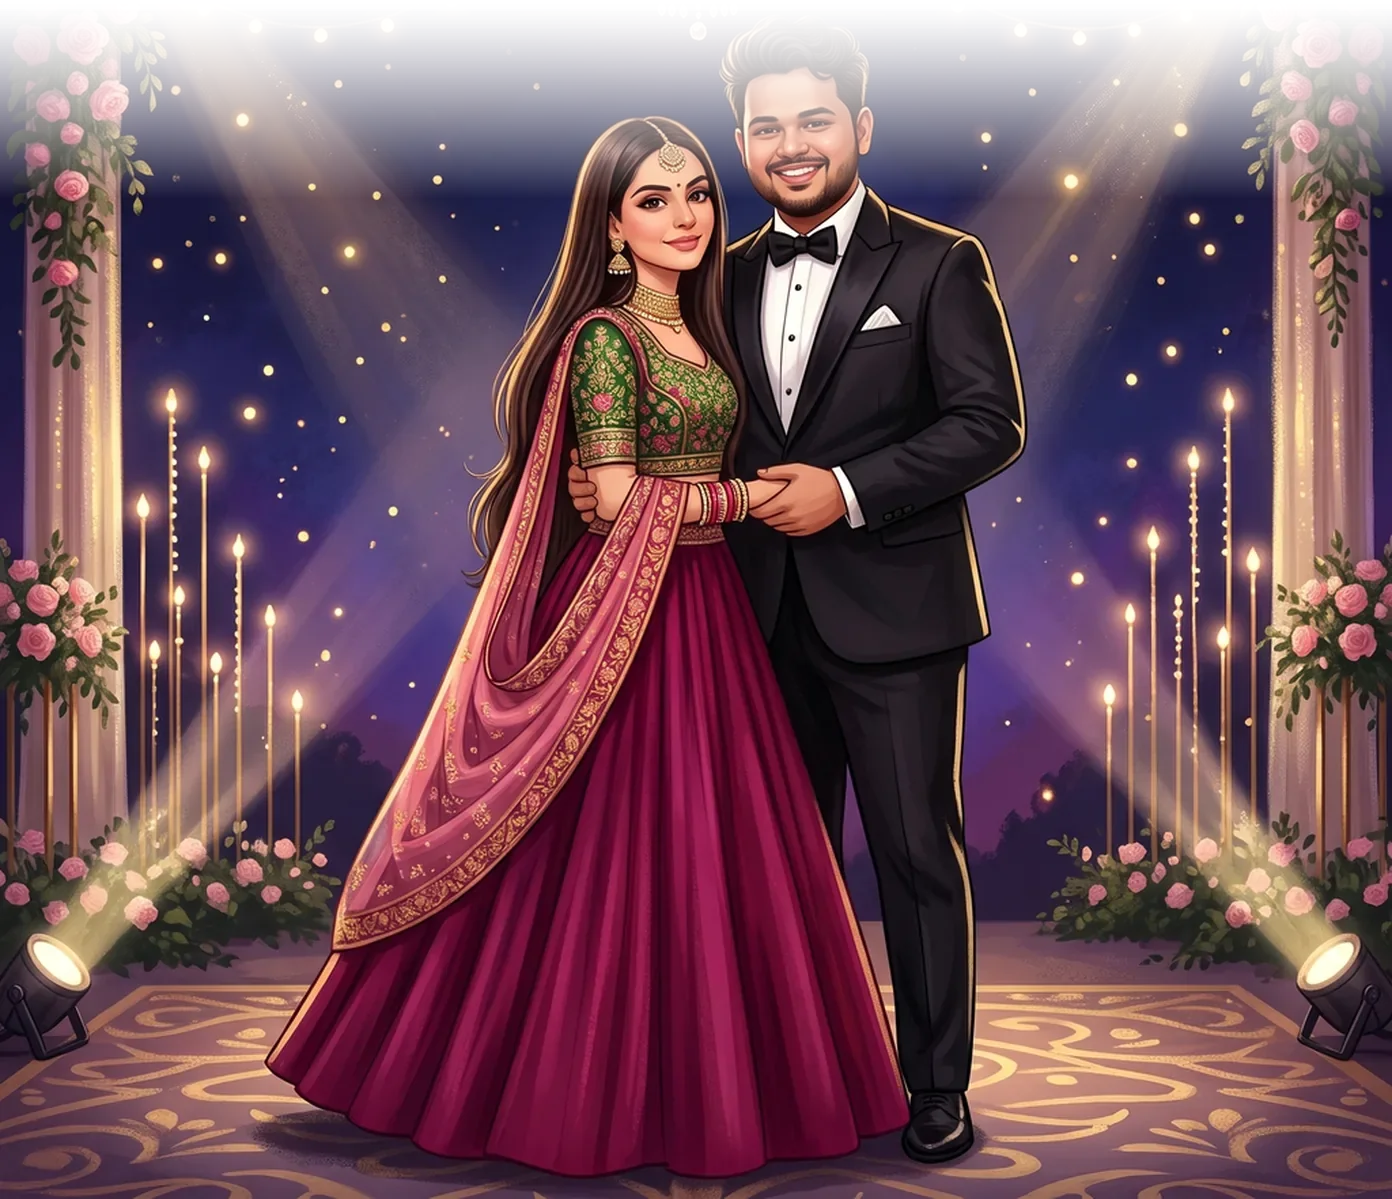
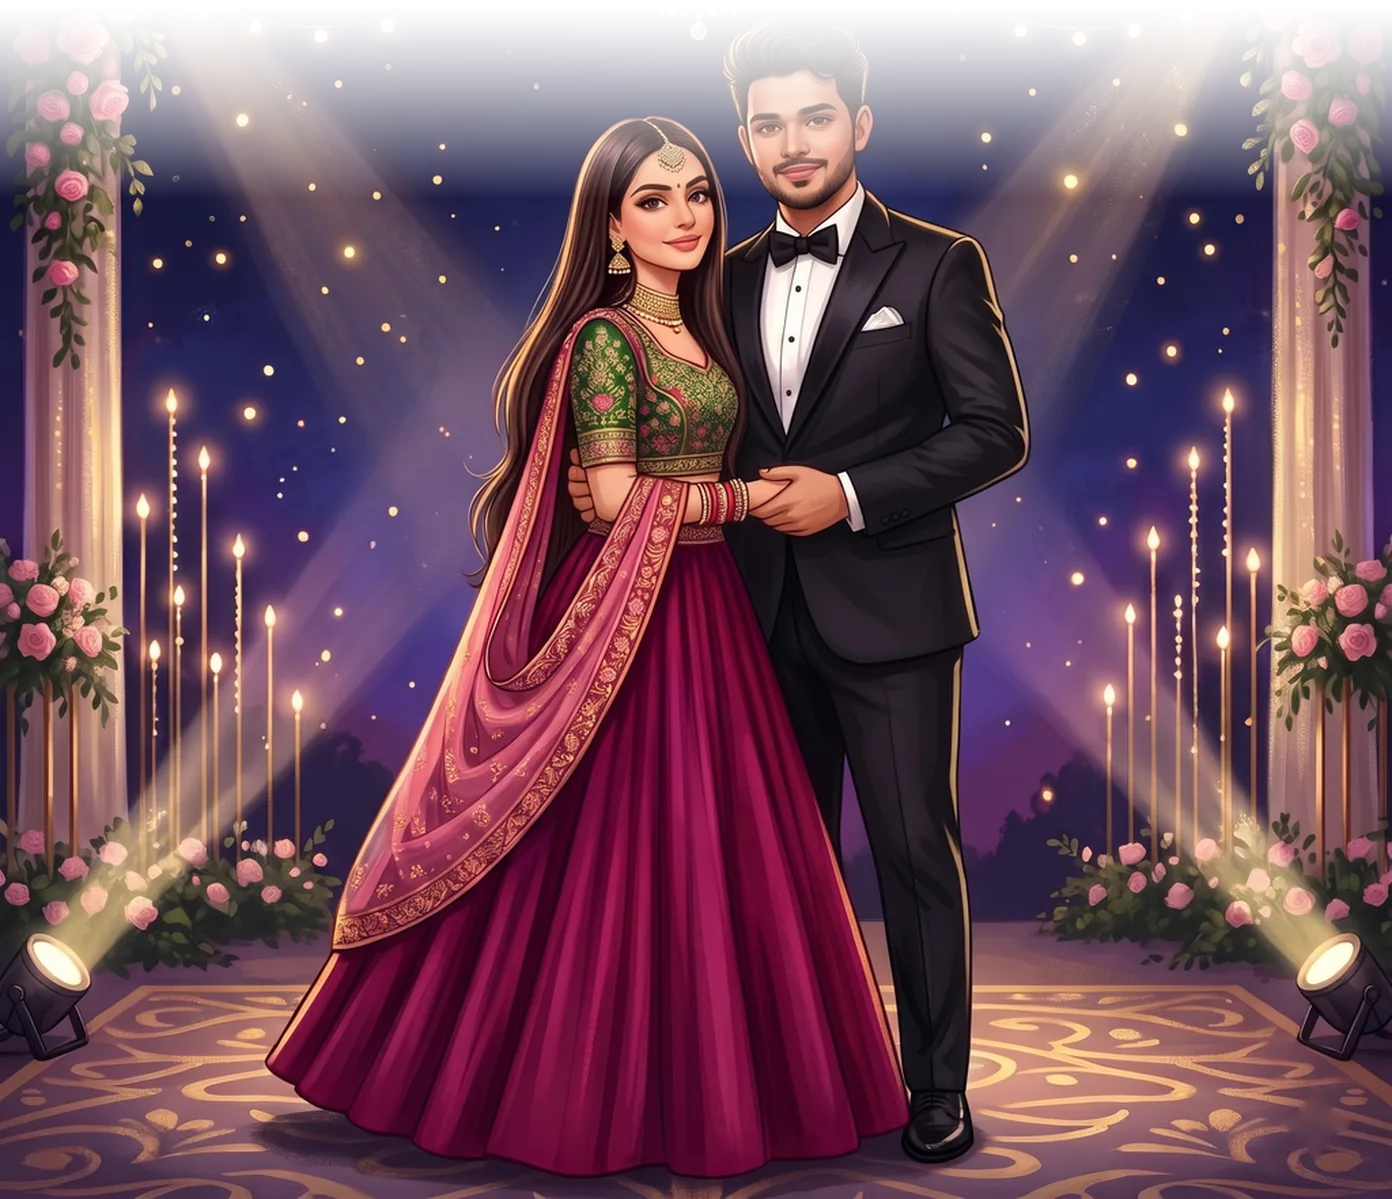
One-tap doors, Ganesha up top, readable plaques, slimmer scene art
- Any touch on the doors opens them, for older guests.
- The hugging photo at the top is replaced by a painted Ganesha.
- Names get an ivory halo; dates, times and the venue sit on gold-edged plaques.
- The four scenes are redone with fit figures and flawless faces; Gemini's
  corner sparkle is painted out (tools/remove_sparkle.py).

diff --git a/index.html b/index.html
@@ -23,7 +23,7 @@
 <link rel="stylesheet" href="https://fonts.googleapis.com/css2?family=Poiret+One&text=Reception&display=swap">
 <link rel="preload" as="image" href="assets/art/door-left.webp">
 <link rel="preload" as="image" href="assets/art/door-right.webp">
-<link rel="stylesheet" href="styles.css?v=16">
+<link rel="stylesheet" href="styles.css?v=18">
 <script>document.documentElement.classList.add('js')</script>
 </head>
 <body>
@@ -65,7 +65,7 @@
     <div class="gate__inner" id="gateInner">
       <p class="deva" lang="hi">॥ श्री गणेशाय नमः ॥</p>
       <h1 class="gate__names"><span>Himanshu</span><span class="amp">&amp;</span><span>Simran</span></h1>
-      <p class="gate__date">12 · 13 December 2026 · Nagpur</p>
+      <p class="gate__date plaque">12 · 13 December 2026 · Nagpur</p>
       <p class="gate__scroll" id="gateScroll" aria-hidden="true">Scroll to walk in<span></span></p>
     </div>
     <svg class="gate__arch gate__arch--3" viewBox="0 0 400 800" preserveAspectRatio="xMidYMid slice" aria-hidden="true">
@@ -101,7 +101,7 @@
 
     <!-- The lock: push the doors and they swing open -->
     <div class="knock" id="knock">
-      <p class="knock__hint" id="knockHint"><span class="knock__arrows" aria-hidden="true"><i>‹‹</i><i>››</i></span><b>Push the doors open</b><small>Press and push. They are heavy.</small></p>
+      <p class="knock__hint" id="knockHint"><span class="knock__arrows" aria-hidden="true"><i>‹‹</i><i>››</i></span><b>Tap to open the doors</b><small>Touch anywhere on the doors</small></p>
       <button class="knock__skip" id="knockSkip" type="button">Open the doors</button>
     </div>
   </div>
@@ -119,7 +119,7 @@
     <figure class="portrait" data-reveal>
       <svg class="portrait__mandala" id="mandala" viewBox="-100 -100 200 200" aria-hidden="true"></svg>
       <div class="portrait__clip" style="clip-path:url(#c-cusp5)">
-        <img data-drift src="assets/art/painting-beach.webp" width="760" height="1139" loading="lazy" decoding="async" alt="A painted portrait of Himanshu and Simran in a quiet embrace">
+        <img data-drift class="portrait__ganesha" src="assets/art/ganesha.webp" width="765" height="1024" loading="lazy" decoding="async" alt="A painting of Lord Ganesha seated on a lotus, with marigolds and diyas">
       </div>
       <svg class="portrait__line" viewBox="0 0 1 1" preserveAspectRatio="none" aria-hidden="true"><use href="#p-cusp5"/></svg>
       <svg class="portrait__line portrait__line--outer" viewBox="0 0 1 1" preserveAspectRatio="none" aria-hidden="true"><use href="#p-cusp5"/></svg>
@@ -145,8 +145,10 @@
       <span class="scratch__shine" aria-hidden="true"></span>
       <svg class="scratch__hand" viewBox="0 0 48 48" aria-hidden="true"><path d="M19 27V10.5a3.5 3.5 0 0 1 7 0V22l9.6 1.7a4 4 0 0 1 3.3 4.4l-1.2 9.4A6 6 0 0 1 31.8 43H23a6 6 0 0 1-4.6-2.2l-6.9-8.4a3.2 3.2 0 0 1 4.7-4.3z"/></svg>
     </div>
-    <p class="date__month" data-reveal>December 2026</p>
-    <p class="date__venue" data-reveal>Kanha Imperial Resort<small>Umred Road, Nagpur</small></p>
+    <div class="plaque plaque--arch" data-reveal>
+      <p class="date__month">December 2026</p>
+      <p class="date__venue">Kanha Imperial Resort<small>Umred Road, Nagpur</small></p>
+    </div>
     <div class="unlock" data-reveal>
       <p class="unlock__teaser" id="unlockTeaser"><svg viewBox="0 0 24 24" aria-hidden="true"><path d="M7 10V7a5 5 0 0 1 10 0v3"/><rect x="4.5" y="10" width="15" height="11" rx="2.5"/><circle cx="12" cy="15.5" r="1.6"/></svg>Scratch the gold to unlock the countdown</p>
       <div class="countdown" id="countdown" aria-label="Time until the celebrations begin">
@@ -167,11 +169,11 @@
     <p class="kicker" data-reveal>Pehla Pehar · Saturday afternoon</p>
     <h2 class="title title--carnival" data-reveal data-split>Carnival of Joy</h2>
     <p class="blurb" data-reveal>Join us for an afternoon of flowers, colours, music, games and laughter.</p>
-    <p class="when" data-reveal>12 December <i></i> 2:00 pm onwards</p>
+    <p class="when plaque" data-reveal>12 December <i></i> 2:00 pm onwards</p>
     <a class="btn" href="calendar/carnival.ics" data-reveal>Add to calendar</a>
   </div>
   <div class="page__art">
-    <img class="page__bottom" data-strip="bottom" src="assets/art/carnival-bottom.webp" width="928" height="999" alt="Illustration of the couple walking into a meadow carnival of tents, pinwheels and colour" loading="lazy" decoding="async">
+    <img class="page__bottom" data-strip="bottom" src="assets/art/carnival-bottom.webp?v=3" width="928" height="999" alt="Illustration of the couple walking into a meadow carnival of tents, pinwheels and colour" loading="lazy" decoding="async">
     <div class="page__fx" aria-hidden="true">
       <span class="pinwheel pinwheel--1"></span><span class="pinwheel pinwheel--2"></span>
       <span class="gulal gulal--1"></span><span class="gulal gulal--2"></span><span class="gulal gulal--3"></span>
@@ -190,10 +192,10 @@
     <p class="kicker" data-reveal>Doosra Pehar · Saturday night</p>
     <h2 class="title title--sufi" data-reveal data-split>Sufi Night</h2>
     <p class="blurb" data-reveal>A night of dazzling outfits, flowing sufi music, dancing and all the sparkle we can find.</p>
-    <p class="when" data-reveal>12 December <i></i> 8:00 pm onwards</p>
+    <p class="when plaque" data-reveal>12 December <i></i> 8:00 pm onwards</p>
     <a class="btn" href="calendar/sufi-night.ics" data-reveal>Add to calendar</a>
   </div>
-  <img class="page__bottom" data-strip="bottom" src="assets/art/sufi-bottom.webp" width="928" height="932" alt="Illustration of the couple in a red lehenga and dark sherwani" loading="lazy" decoding="async">
+  <img class="page__bottom" data-strip="bottom" src="assets/art/sufi-bottom.webp?v=3" width="928" height="932" alt="Illustration of the couple in a red lehenga and dark sherwani" loading="lazy" decoding="async">
 </section>
 
 <!-- The sky keeps time: a new morning -->
@@ -207,10 +209,10 @@
     <p class="kicker" data-reveal>Teesra Pehar · Sunday noon</p>
     <h2 class="title title--baraat" data-reveal>Baraat <em>and</em> Wedding</h2>
     <p class="blurb" data-reveal>Join us for dhol beats, dancing, grand celebrations and unforgettable baraat vibes.</p>
-    <p class="when" data-reveal>13 December <i></i> 12:00 pm onwards</p>
+    <p class="when plaque" data-reveal>13 December <i></i> 12:00 pm onwards</p>
     <a class="btn" href="calendar/wedding.ics" data-reveal>Add to calendar</a>
   </div>
-  <img class="page__bottom" data-strip="bottom" src="assets/art/baraat-bottom.webp" width="928" height="666" alt="Illustration of the baraat dancing around a flower-decked vintage car" loading="lazy" decoding="async">
+  <img class="page__bottom" data-strip="bottom" src="assets/art/baraat-bottom.webp?v=3" width="928" height="666" alt="Illustration of the baraat dancing around a flower-decked vintage car" loading="lazy" decoding="async">
 </section>
 
 <!-- The sky keeps time: night falls again -->
@@ -224,10 +226,10 @@
     <p class="kicker" data-reveal>Chautha Pehar · Sunday night</p>
     <h2 class="title title--reception" data-reveal data-split>Reception</h2>
     <p class="blurb" data-reveal>Join us for an evening of elegance, love, heartfelt moments and beautiful celebrations.</p>
-    <p class="when" data-reveal>13 December <i></i> 8:00 pm onwards</p>
+    <p class="when plaque" data-reveal>13 December <i></i> 8:00 pm onwards</p>
     <a class="btn" href="calendar/reception.ics" data-reveal>Add to calendar</a>
   </div>
-  <img class="page__bottom" data-strip="bottom" src="assets/art/reception-bottom.webp" width="928" height="799" alt="Illustration of the couple under spotlights, he in a tuxedo, she in a magenta lehenga" loading="lazy" decoding="async">
+  <img class="page__bottom" data-strip="bottom" src="assets/art/reception-bottom.webp?v=3" width="928" height="799" alt="Illustration of the couple under spotlights, he in a tuxedo, she in a magenta lehenga" loading="lazy" decoding="async">
 </section>
 
 <!-- 8. Painted moments -->
@@ -249,9 +251,11 @@
 <section class="page page--closing" id="venue">
   <img class="page__top" data-strip="top" src="assets/art/closing-top.webp" width="928" height="432" alt="" loading="lazy" decoding="async">
   <div class="page__body">
-    <p class="kicker" data-reveal>Where</p>
-    <h2 class="heading" data-reveal>Kanha Imperial Resort</h2>
-    <p class="addr" data-reveal>Umred Road, Nagpur</p>
+    <div class="plaque plaque--arch" data-reveal>
+      <p class="kicker">Where</p>
+      <h2 class="heading">Kanha Imperial Resort</h2>
+      <p class="addr">Umred Road, Nagpur</p>
+    </div>
     <div class="actions" data-reveal>
       <a class="btn btn--solid" href="https://www.google.com/maps/search/?api=1&amp;query=Kanha+Imperial+Resort+Umred+Road+Nagpur" target="_blank" rel="noopener">Open in Maps</a>
       <a class="btn" href="calendar/all.ics">Add all four to calendar</a>
@@ -313,6 +317,6 @@
 </section>
 
 </main>
-<script src="main.js?v=13" defer></script>
+<script src="main.js?v=14" defer></script>
 </body>
 </html>

diff --git a/styles.css b/styles.css
@@ -420,6 +420,32 @@ img, video, svg, canvas { display: block; }
 
 /* ───────────── Reduced motion ───────────── */
 
+/* ── Highlights: the names glow on an ivory halo; dates, times and the venue sit on a gold-edged plaque ── */
+.gate__names, .name { color: #5e1a16; text-shadow: 0 0 1px rgba(255, 249, 238, 1), 0 0 12px rgba(255, 249, 238, .95), 0 0 28px rgba(255, 246, 230, .85); }
+.parents { color: #4a2418; font-size: .8rem; }
+.plaque {
+  position: relative; width: fit-content; max-width: 100%; margin-inline: auto; padding: .75em 1.5em;
+  border-radius: 10px; color: #4a1d14;
+  background: linear-gradient(180deg, rgba(255, 252, 245, .95), rgba(251, 241, 225, .93));
+  box-shadow: 0 0 0 1px rgba(184, 134, 43, .75), 0 0 0 4px rgba(255, 250, 240, .9), 0 0 0 5px rgba(184, 134, 43, .45), 0 10px 26px rgba(70, 30, 10, .16);
+}
+.page[data-dark] .plaque {
+  color: #fff3d6;
+  background: linear-gradient(180deg, rgba(44, 12, 26, .82), rgba(26, 10, 36, .82));
+  box-shadow: 0 0 0 1px rgba(232, 196, 110, .85), 0 0 0 4px rgba(44, 12, 26, .55), 0 0 0 5px rgba(232, 196, 110, .45), 0 10px 26px rgba(0, 0, 0, .35);
+}
+.when.plaque { display: flex; font-size: .86rem; padding: .7em 1.3em; }
+.when.plaque i { opacity: .6; }
+.gate__date.plaque { margin-top: 1.8lvh; padding: .65em 1.1em; font-size: clamp(.62rem, 1.5lvh, .84rem); letter-spacing: .12em; white-space: nowrap; color: #4a1d14; }
+.plaque--arch { padding: 1.6em 1.8em 1.2em; border-radius: 999px 999px 16px 16px / 90px 90px 16px 16px; }
+.plaque--arch .date__month { color: #8a5a1c; }
+.plaque--arch .date__venue { margin-top: .35em; color: #5e1a16; }
+.plaque--arch .heading { color: #5e1a16; margin: .15em 0 .2em; }
+.plaque--arch .addr { color: #4a2418; }
+.plaque--arch .kicker { color: #9a6a1f; }
+
+.portrait__clip img.portrait__ganesha { object-position: 50% 40%; }
+
 @media (prefers-reduced-motion: reduce) {
   *, *::before, *::after { animation: none !important; }
   .gate { height: 100vh; height: 100lvh; }

diff --git a/main.js b/main.js
@@ -100,13 +100,13 @@
   // The doors are two hinged, heavy bodies. A finger drags the edge it grabbed (or simply
   // leans on the door); on release they either swing shut or carry on open and hit the stop.
   function pushDoors() {
-    const doorsEl = $('#doors'), lightEl = $('#doorLight'), hint = $('#knockHint');
+    const doorsEl = $('#doors'), lightEl = $('#doorLight');
     const MAX = 1.5; // radians, about 86°
     const mk = (id, sign) => { const el = $(id); return { el, sign, shade: $('.door__shade', el), sheen: $('.door__sheen', el), a: 0, w: 0, held: false, grab: 1, x: 0, downAt: 0, downX: 0, drawn: -1 }; };
     const L = mk('#doorL', 1), R = mk('#doorR', -1);
     const doors = [L, R];
     const other = (d) => (d === L ? R : L);
-    let W = 0, committed = false, running = true, last = 0, idleFrom = performance.now(), taps = 0, lit = -1, settleAt = 0;
+    let W = 0, committed = false, running = true, last = 0, idleFrom = performance.now(), lit = -1, settleAt = 0;
 
     // a soft wooden thump when a door meets its stop
     let actx = null;
@@ -191,12 +191,8 @@
       const now = performance.now(); idleFrom = now;
       if (!pointers.size) knock.classList.remove('is-pushing');
       if (committed) return;
-      const tap = now - d.downAt < 230 && Math.abs(d.x - d.downX) < 8;
-      if (tap) {                                    // a knock: the door gives a little, and more each time
-        taps++; d.w += 2.4 + taps * .8; other(d).w += 1.2;
-        if (taps >= 3) commit();
-        else hint.querySelector('small').textContent = 'Not a knock. Give them a proper push.';
-      } else if (d.a > .42 || d.w > 2 || dragAngle(d) > .7) commit(); // pushed far or fast enough: it carries on
+      d.w += 2.4; other(d).w += 1.2; // any touch opens them: a tap, a press or a push
+      commit();
     };
     knock.addEventListener('pointerup', release); knock.addEventListener('pointercancel', release);
     $('#knockSkip').addEventListener('click', () => { wake(); primeSong(); commit(); });

diff --git a/tools/remove_sparkle.py b/tools/remove_sparkle.py
@@ -1,0 +1,56 @@
+"""Paints out the small four-point sparkle Gemini stamps in the bottom-right corner of its pictures.
+
+  python3 tools/remove_sparkle.py sufi reception baraat carnival
+
+Works on assets/art/<scene>-bottom.webp in place (the full-quality copy in source/faces/ is used as input
+when it exists). The sparkle is found as pale, low-saturation pixels brighter than their surroundings in the
+corner, then filled by diffusing the colours around it inwards.
+"""
+import sys
+from pathlib import Path
+
+import numpy as np
+from PIL import Image, ImageFilter
+
+ROOT = Path(__file__).resolve().parent.parent
+
+
+def clean(scene):
+    src = ROOT / "source" / "faces" / f"{scene}-bottom.png"
+    dst = ROOT / "assets" / "art" / f"{scene}-bottom.webp"
+    im = Image.open(src if src.exists() else dst).convert("RGBA")
+    W, H = im.size
+    box = (W - 135, H - 130, W - 25, H - 20)  # the sparkle sits about 80 px in from the corner
+    rgb = np.asarray(im.convert("RGB").crop(box)).astype(float)
+    lum = rgb.mean(axis=2)
+    blur = np.asarray(Image.fromarray(lum.astype(np.uint8)).filter(ImageFilter.GaussianBlur(14))).astype(float)
+    sat = (rgb.max(axis=2) - rgb.min(axis=2)) / (rgb.max(axis=2) + 1)
+    mask = (lum - blur > 22) & (sat < .16) & (lum > 160)
+    if mask.sum() < 40:
+        print(f"  {scene}: no sparkle found"); return
+    m = Image.fromarray((mask * 255).astype(np.uint8)).filter(ImageFilter.MaxFilter(7))
+    hole = np.asarray(m) > 0
+    fill = rgb.copy(); known = ~hole
+    fill[hole] = 0
+    for _ in range(400):  # diffuse surrounding colour into the hole
+        acc = np.zeros_like(fill); cnt = np.zeros(hole.shape)
+        for dy, dx in ((1, 0), (-1, 0), (0, 1), (0, -1)):
+            k = np.roll(known, (dy, dx), (0, 1)); v = np.roll(fill, (dy, dx), (0, 1))
+            acc += v * k[..., None]; cnt += k
+        upd = hole & (cnt > 0)
+        fill[upd] = acc[upd] / cnt[upd][:, None]
+        known = known | upd
+    # a little grain so the patch does not look airbrushed
+    noise = np.random.default_rng(1).normal(0, 3, fill.shape)
+    fill[hole] = np.clip(fill[hole] + noise[hole], 0, 255)
+    out = np.asarray(im).copy()
+    out[box[1]:box[3], box[0]:box[2], :3] = fill.astype(np.uint8)
+    res = Image.fromarray(out, "RGBA")
+    if src.exists():
+        res.save(src)
+    res.save(dst, "WEBP", quality=82, method=6, alpha_quality=90)
+    print(f"  {scene}: removed {int(hole.sum())} px")
+
+
+for s in sys.argv[1:]:
+    clean(s)
